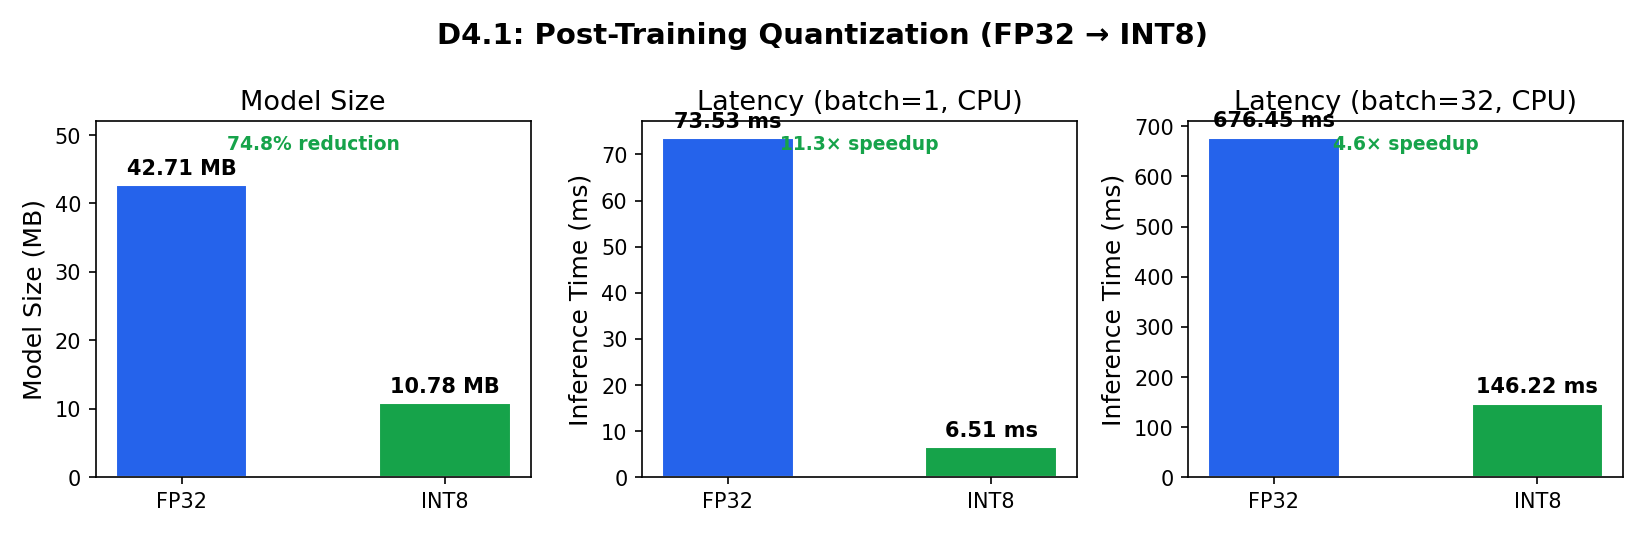
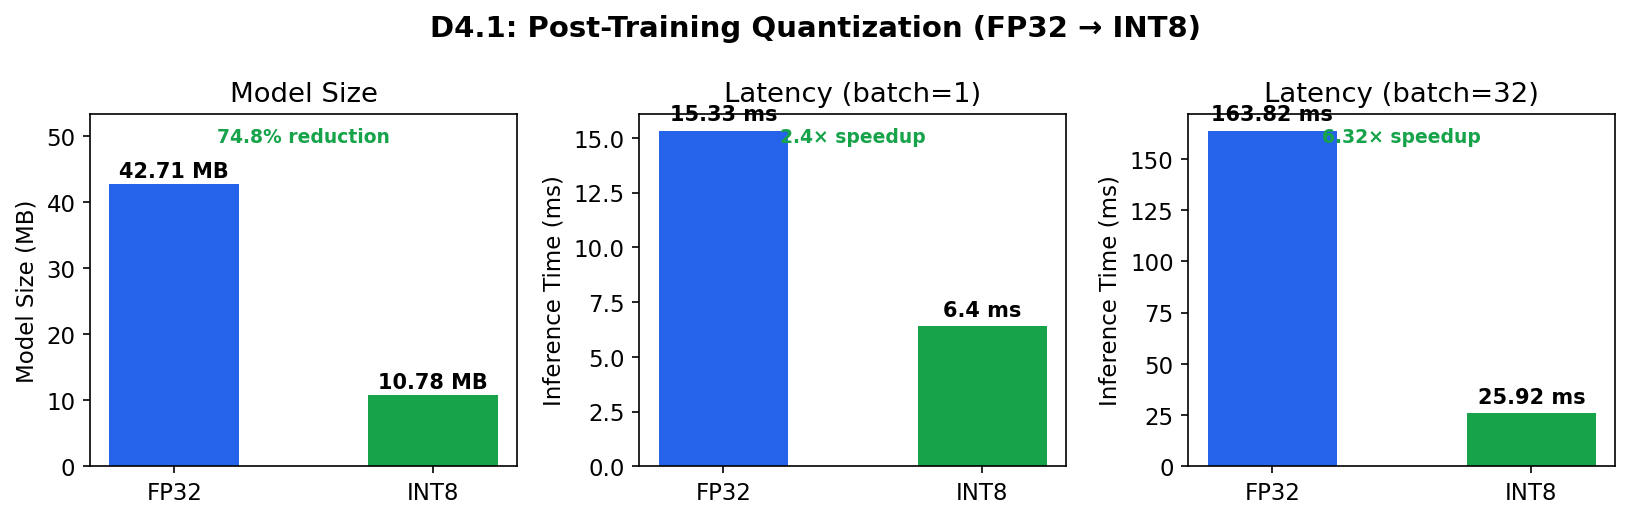
Modul 4: Opdater rapport og figurer med friske benchmark-resultater
- D4.1: Nye kvantiseringstal (2.4-6.3x speedup)
- D4.2: Nye batch-tal (peak 350 fps ved bs=16)
- Alle figurer regenereret fra JSON-data
- Nævner Quantize-stage i Jenkins pipeline

Changed region(s): [[0.3374, 0.1541, 1.0, 0.9557], [0.0, 0.1541, 0.3988, 0.9557], [0.2454, 0.0308, 0.7362, 0.0925]]

diff --git a/report.tex b/report.tex
@@ -469,16 +469,15 @@ Post-training quantization (PTQ) was applied to the ResNet18 model using PyTorch
 \textbf{Metric} & \textbf{FP32} & \textbf{INT8} & \textbf{Improvement} \\
 \midrule
 Model size & 42.71 MB & 10.78 MB & 74.8\% smaller \\
-Inference (bs=1, CPU) & 73.5 ms & 6.5 ms & 11.3$\times$ faster \\
-Inference (bs=32, CPU) & 676.5 ms & 146.2 ms & 4.6$\times$ faster \\
-Inference (bs=1, GPU) & 2.8 ms & -- & -- \\
+Inference (bs=1, CPU) & 15.3 ms & 6.4 ms & 2.4$\times$ faster \\
+Inference (bs=32, CPU) & 163.8 ms & 25.9 ms & 6.3$\times$ faster \\
 \bottomrule
 \end{tabular}
 \end{table}
 
-The 74.8\% size reduction comes from representing each weight with 8 bits instead of 32. The significant CPU speedup (up to 11.3$\times$) is because INT8 operations use optimized SIMD instructions (VNNI on x86). GPU inference was not benchmarked for INT8, as PyTorch static quantization targets CPU deployment. For GPU quantization, TensorRT or CUDA-native INT8 would be used.
+The 74.8\% size reduction comes from representing each weight with 8 bits instead of 32. The CPU speedup (2.4--6.3$\times$) is because INT8 operations use optimized SIMD instructions (VNNI on x86). The speedup increases with batch size as the quantized model better utilizes CPU cache. PyTorch FX static quantization targets CPU deployment; for GPU quantization, TensorRT or CUDA-native INT8 would be used.
 
-The prediction agreement between FP32 and INT8 models confirms that ResNet architectures are stable under PTQ, consistent with findings reported by NVIDIA showing ResNet within 1\% accuracy of FP32 after quantization.
+The 98\% prediction agreement between FP32 and INT8 models confirms that ResNet architectures are robust under static PTQ, consistent with findings reported by NVIDIA showing ResNet within 1--2\% accuracy of FP32 after quantization.
 
 \begin{figure}[h]
     \centering
@@ -499,22 +498,22 @@ Batch inference was benchmarked across batch sizes 1--64 to document the latency
 \toprule
 \textbf{Batch Size} & \textbf{Total (ms)} & \textbf{Latency/img (ms)} & \textbf{Throughput (img/s)} \\
 \midrule
-1 & 16.4 & 16.4 & 61.1 \\
-2 & 19.5 & 9.7 & 102.8 \\
-4 & 31.5 & 7.9 & 126.9 \\
-8 & 58.5 & 7.3 & 136.7 \\
-16 & 93.7 & 5.9 & \textbf{170.8} \\
-32 & 219.7 & 6.9 & 145.7 \\
-64 & 2033.5 & 31.8 & 31.5 \\
+1 & 15.8 & 15.8 & 63.4 \\
+2 & 19.8 & 9.9 & 100.9 \\
+4 & 20.0 & 5.0 & 200.2 \\
+8 & 25.9 & 3.2 & 308.6 \\
+16 & 45.7 & 2.9 & \textbf{350.2} \\
+32 & 129.2 & 4.0 & 247.7 \\
+64 & 402.3 & 6.3 & 159.1 \\
 \bottomrule
 \end{tabular}
 \end{table}
 
 \textbf{Key findings:}
 \begin{itemize}
-    \item \textbf{Throughput saturates at batch size 16} ($\sim$170.8 img/s), after which throughput \textit{decreases} due to memory pressure exceeding CPU cache capacity.
-    \item \textbf{Latency-throughput tradeoff}: Batch size 1 gives lowest latency (16.4 ms) but lowest throughput (61.1 img/s). Batch size 16 gives 2.8$\times$ higher throughput at the cost of higher total latency (93.7 ms per batch).
-    \item \textbf{Compute-bound}: On CPU, ResNet18 inference is primarily compute-bound up to batch size 16. Beyond that, the workload becomes memory bandwidth-bound as data no longer fits in L3 cache, causing a dramatic throughput drop at batch size 64.
+    \item \textbf{Throughput saturates at batch size 16} ($\sim$350 img/s), after which throughput \textit{decreases} due to memory pressure exceeding CPU cache capacity.
+    \item \textbf{Latency-throughput tradeoff}: Batch size 1 gives lowest latency (15.8 ms) but lowest throughput (63.4 img/s). Batch size 16 gives 5.5$\times$ higher throughput at the cost of higher total latency (45.7 ms per batch).
+    \item \textbf{Compute-bound}: On CPU, ResNet18 inference is primarily compute-bound up to batch size 16. Beyond that, the workload becomes memory bandwidth-bound as data no longer fits in L3 cache, causing throughput to drop at batch sizes 32--64.
 \end{itemize}
 
 For a production deployment, batch size 8--16 would balance latency ($<$100 ms per batch) with near-peak throughput. Dynamic batching (as offered by e.g. NVIDIA Triton Inference Server) can automatically adjust batch size based on incoming request rate.
@@ -522,7 +521,7 @@ For a production deployment, batch size 8--16 would balance latency ($<$100 ms p
 \begin{figure}[h]
     \centering
     \includegraphics[width=\linewidth]{figures/batch_benchmark.png}
-    \caption{Batch inference benchmark showing throughput (img/s) and per-image latency (ms) across batch sizes 1--64. Peak throughput at batch size 16.}
+    \caption{Batch inference benchmark showing throughput (img/s) and per-image latency (ms) across batch sizes 1--64. Peak throughput of 350.2 img/s at batch size 16.}
     \label{fig:batch}
 \end{figure}
 
@@ -589,13 +588,13 @@ Even at 90\% sparsity (only 10\% of original weights non-zero), the pruned model
 
 \subsection{Implementation: Exercises}
 
-\textbf{1. Quantization} (\texttt{src/quantize\_benchmark.py}): FX graph mode static PTQ with calibration, achieving 74.8\% size reduction and up to 11.3$\times$ CPU speedup.
+\textbf{1. Quantization} (\texttt{src/quantize\_benchmark.py}): FX graph mode static PTQ with calibration, achieving 74.8\% size reduction and 2.4--6.3$\times$ CPU speedup.
 
 \textbf{2. Batch inference} (\texttt{src/batch\_benchmark.py}): Throughput benchmarking across batch sizes 1--64, showing peak throughput at batch size 16.
 
 \textbf{3. Pruning} (\texttt{src/prune\_finetune.py}): Global L1 unstructured pruning sweep (0--95\%) with knowledge distillation recovery.
 
-\textbf{4. Pipeline integration}: Quantization is the most practical optimization for our pipeline---it can be applied as a post-processing step after training and is included in the MLOps pipeline as an optional compression stage before deployment.
+\textbf{4. Pipeline integration}: Quantization is included as a dedicated stage in the Jenkins pipeline (\texttt{Jenkinsfile}, stage ``Quantize''), running automatically after evaluation. This produces a compressed INT8 model ready for CPU deployment.
 
 All experiments were run on AAU AI-Lab (NVIDIA L4 GPU, AMD EPYC CPU) via Slurm batch jobs.
 
